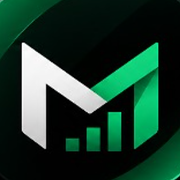
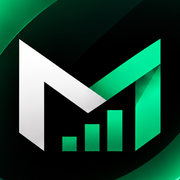
Monetra 5.0.1

diff --git a/app.js b/app.js
@@ -10,12 +10,11 @@ const DEFAULT_CATS=["Mercado / Alimentação","Moradia (aluguel, condomínio)","
 const FORMAS=[["pix","Pix"],["debito","Débito"],["credito","Crédito"],["dinheiro","Dinheiro"],["boleto","Boleto"]];
 const LSKEY="meucaixa.v1";
 /* Versão do app — ao publicar, atualize aqui, no sw.js (CACHE) e no CHANGELOG.md */
-const VERSAO="5.0.0";
+const VERSAO="5.0.1";
 const NOVIDADES=[
-  "O app agora se chama Monetra, com logo nova e visual novo nos temas claro e escuro.",
-  "Navegação nova: Início, Relatórios, Metas e Ajustes, com o botão + sempre no centro. O Perfil fica na sua foto, no topo.",
-  "Nova aba Metas: metas de economia, desafios e conquistas no mesmo lugar.",
-  "Caixas sem borda, cantos mais redondos, títulos fora das caixas e ícones no lugar dos emojis."
+  "Início igual ao modelo: saudação, saldo com gráfico do mês, receitas e despesas no topo, atalhos (Despesa, Receita, Conta fixa/Transferir, Caixinha), previsão e orçamento do mês.",
+  "Logo em alta resolução e barra de baixo com Início, Relatórios, +, Metas e Perfil (Ajustes fica no Perfil).",
+  "O botão voltar do celular agora fecha a janela aberta (ou volta para o Início) em vez de fechar o app."
 ];
 
 /* ---------- utilidades ---------- */
@@ -1195,12 +1194,13 @@ function encolheValores(raiz){ if(!raiz) return; raiz.querySelectorAll(".tile .v
 function header(){
   const t=(id,l)=>`<button role="tab" data-tab="${id}" aria-selected="${ui.tab===id}">${l}</button>`;
   const VIS=mesesVisiveis(), i=VIS.indexOf(ui.month), logado=mode!=="login"&&!precisaTermos();
-  return `<div class="top"><div class="brand"><img class="logo" src="icons/logo-128.png" alt="" width="36" height="36"><h1>Monetra</h1><button type="button" class="status ${statusCls}" id="status" data-status="1" title="${esc(statusTxt)}"><i></i><span class="stt">${esc(statusTxt)}</span></button></div>
+  return `<div class="top"><div class="brand"><img class="logo" src="icons/marca.png" alt="" width="34" height="27"><h1>Monetra</h1><button type="button" class="status ${statusCls}" id="status" data-status="1" title="${esc(statusTxt)}"><i></i><span class="stt">${esc(statusTxt)}</span></button></div>
   <div class="topright">${logado?`<div class="tabs" role="tablist">${t("mes","Início")}${t("ano","Relatórios")}${t("metas","Metas")}${t("ajustes","Ajustes")}</div>`:botaoTema()}
   ${logado&&state.loaded?`<button type="button" class="iconbtn" data-busca="1" aria-label="Buscar lançamentos" title="Buscar (tecla /)">${ICON.busca}</button>`:""}
   ${logado&&state.loaded?botaoSino():""}
   ${logado&&state.loaded?`<button type="button" class="avatarbtn ${ui.tab==="perfil"?"on":""}" data-tab="perfil" aria-label="Abrir meu perfil" title="Meu perfil">${avatar(36)}</button>`:""}</div></div>
   ${logado&&mode==="cloud"?seletorEspaco():""}
+  ${ui.tab==="mes"&&logado&&state.loaded?`<div class="saud"><small>${(()=>{ const h=new Date().getHours(); return h<12?"Bom dia,":h<18?"Boa tarde,":"Boa noite,"; })()}</small><h2>${esc(authUser?primeiroNome(meuNome()):"bem-vindo")}</h2></div>`:""}
   ${ui.tab==="mes"&&logado?`<div class="months"><button class="arrow" data-nav="-1" aria-label="Mês anterior" ${i<=0?"disabled":""}>‹</button>
   <div class="chips">${VIS.map(k=>`<button class="chip ${k===ui.month?"on":""} ${k===todayKey?"now":""}" data-month="${k}">${ABR[kM(k)-1]} <small>${String(kY(k)).slice(2)}</small></button>`).join("")}</div>
   <button class="arrow" data-nav="1" aria-label="Próximo mês" ${i>=VIS.length-1?"disabled":""}>›</button></div>`:""}
@@ -1215,15 +1215,15 @@ function avatar(px){
 /* faixa do topo: termina um pouco abaixo do saldo (Início) ou do cabeçalho (outras abas) */
 function posicionaBanda(){ const app=document.getElementById("app"), band=app&&app.querySelector(".band"); if(!band) return;
   const y=el=>el.getBoundingClientRect().bottom+window.scrollY;
-  const hero=app.querySelector(".heroSaldo"), fim=hero?y(hero)+34:Math.max(...[".top",".espacos",".months",".note",".pagetitle"].map(q=>app.querySelector(q)).filter(Boolean).map(y))+(app.querySelector(".pagetitle")?14:4);
+  const hero=app.querySelector(".heroSaldo"), fim=hero?y(hero)+42:Math.max(...[".top",".espacos",".months",".note",".pagetitle"].map(q=>app.querySelector(q)).filter(Boolean).map(y))+(app.querySelector(".pagetitle")?14:4);
   band.style.height=Math.max(120,Math.round(fim))+"px"; document.body.classList.toggle("combanda",!!hero); }
 window.addEventListener("resize",()=>{ try{ posicionaBanda(); }catch(e){} });
 function bottomNav(){
   if(mode==="login"||!state.loaded||precisaTermos()) return "";
   const np=pendencias().length;
-  const ICN={mes:ICON.inicio,ano:ICON.relat,metas:ICON.metas,ajustes:ICON.ajustes};
+  const ICN={mes:ICON.inicio,ano:ICON.relat,metas:ICON.metas,perfil:ICON.perfil};
   const b=(id,l)=>`<button type="button" data-tab="${id}" class="${ui.tab===id?"on":""}" aria-current="${ui.tab===id?"page":"false"}">${ICN[id]}${id==="mes"&&np?`<i class="badge">${np}</i>`:""}<span>${l}</span></button>`;
-  return `<nav class="bottomnav" aria-label="Navegação">${b("mes","Início")}${b("ano","Relatórios")}<span class="navfab"><button class="fab" type="button" data-novo="gasto" aria-label="Novo lançamento">${ICON.mais}</button></span>${b("metas","Metas")}${b("ajustes","Ajustes")}</nav>`;
+  return `<nav class="bottomnav" aria-label="Navegação">${b("mes","Início")}${b("ano","Relatórios")}<span class="navfab"><button class="fab" type="button" data-novo="gasto" aria-label="Novo lançamento">${ICON.mais}</button></span>${b("metas","Metas")}${b("perfil","Perfil")}</nav>`;
 }
 function viewLogin(){
   const novo=ui.loginModo==="criar";
@@ -1280,7 +1280,7 @@ function sequencias(gs){
   let azulMelhor=0, r=0; fechados.forEach((k,i)=>{ r=calc(k).saldo>=0?(i&&entre(fechados[i-1],k)===1?r+1:1):0; if(r>azulMelhor) azulMelhor=r; });
   return {atual,melhor,azulAtual,azulMelhor,fechados};
 }
-const ICQ={broto:'<path d="M12 20v-8"/><path d="M12 12c0-4 3-6 7-6 0 4-3 6-7 6zM12 14c0-3-2.5-5-6-5 0 3 2.5 5 6 5z"/>',chama:'<path d="M12 21c-4 0-6.5-2.6-6.5-6 0-4 4-6 4.5-10 2.5 1.5 4 4 4 6 1-1 1.5-2 1.5-3 2 1.5 3 4 3 7 0 3.4-2.5 6-6.5 6z"/>',medalha:'<circle cx="12" cy="14" r="5"/><path d="M9 9.5 7 3h4l1 3 1-3h4l-2 6.5"/>',coracao:'<path d="M12 20s-7-4.4-7-9.6A3.9 3.9 0 0 1 12 8a3.9 3.9 0 0 1 7 2.4c0 5.2-7 9.6-7 9.6z"/>',nuvem:'<path d="M7 18a4 4 0 0 1-.5-8 5.5 5.5 0 0 1 10.6 1.5A3.5 3.5 0 0 1 17 18z"/>',sol:'<circle cx="12" cy="12" r="4"/><path d="M12 3v2M12 19v2M3 12h2M19 12h2M5.6 5.6l1.4 1.4M17 17l1.4 1.4M5.6 18.4 7 17M17 7l1.4-1.4"/>',trofeu:'<path d="M8 4h8v5a4 4 0 0 1-8 0z"/><path d="M8 6H5a3 3 0 0 0 3 4M16 6h3a3 3 0 0 1-3 4M12 13v4M9 20h6"/>',alvo:'<circle cx="12" cy="12" r="8"/><circle cx="12" cy="12" r="4"/><circle cx="12" cy="12" r=".8"/>',cofre:'<path d="M5 11a7 6 0 0 1 12.5-3.5L20 7v4l-1.5 1A7 6 0 0 1 15 17v2h-3v-1.5h-2V19H7v-2.3A6 6 0 0 1 5 11z"/>',bandeira:'<path d="M6 21V4M6 4h11l-2 4 2 4H6"/>',raio:'<path d="M13 3 5.5 13.5H12L11 21l7.5-10.5H12z"/>',estrela:'<path d="m12 4 2.4 5 5.4.7-4 3.7 1 5.4L12 16.3 7.2 18.8l1-5.4-4-3.7 5.4-.7z"/>'};
+const ICQ={"seta-baixo":'<path d="M12 5v14M6 13l6 6 6-6"/>',"seta-cima":'<path d="M12 19V5M6 11l6-6 6 6"/>',troca:'<path d="M7 7h12l-3-3M17 17H5l3 3"/>',repete:'<path d="M17 4l3 3-3 3"/><path d="M4 12V9a2 2 0 0 1 2-2h14M7 20l-3-3 3-3"/><path d="M20 12v3a2 2 0 0 1-2 2H4"/>',tendencia:'<path d="M4 17l5-5 4 3 7-8"/><path d="M15 7h5v5"/>',engrenagem:'<circle cx="12" cy="12" r="3"/><path d="M19.4 15a1.7 1.7 0 0 0 .3 1.8l.1.1a2 2 0 1 1-2.8 2.8l-.1-.1a1.7 1.7 0 0 0-1.8-.3 1.7 1.7 0 0 0-1 1.5V21a2 2 0 0 1-4 0v-.1a1.7 1.7 0 0 0-1.1-1.5 1.7 1.7 0 0 0-1.8.3l-.1.1a2 2 0 1 1-2.8-2.8l.1-.1a1.7 1.7 0 0 0 .3-1.8 1.7 1.7 0 0 0-1.5-1H3a2 2 0 0 1 0-4h.1a1.7 1.7 0 0 0 1.5-1.1 1.7 1.7 0 0 0-.3-1.8l-.1-.1a2 2 0 1 1 2.8-2.8l.1.1a1.7 1.7 0 0 0 1.8.3H9a1.7 1.7 0 0 0 1-1.5V3a2 2 0 0 1 4 0v.1a1.7 1.7 0 0 0 1 1.5 1.7 1.7 0 0 0 1.8-.3l.1-.1a2 2 0 1 1 2.8 2.8l-.1.1a1.7 1.7 0 0 0-.3 1.8V9a1.7 1.7 0 0 0 1.5 1H21a2 2 0 0 1 0 4h-.1a1.7 1.7 0 0 0-1.5 1z"/>',chev:'<path d="m9 6 6 6-6 6"/>',broto:'<path d="M12 20v-8"/><path d="M12 12c0-4 3-6 7-6 0 4-3 6-7 6zM12 14c0-3-2.5-5-6-5 0 3 2.5 5 6 5z"/>',chama:'<path d="M12 21c-4 0-6.5-2.6-6.5-6 0-4 4-6 4.5-10 2.5 1.5 4 4 4 6 1-1 1.5-2 1.5-3 2 1.5 3 4 3 7 0 3.4-2.5 6-6.5 6z"/>',medalha:'<circle cx="12" cy="14" r="5"/><path d="M9 9.5 7 3h4l1 3 1-3h4l-2 6.5"/>',coracao:'<path d="M12 20s-7-4.4-7-9.6A3.9 3.9 0 0 1 12 8a3.9 3.9 0 0 1 7 2.4c0 5.2-7 9.6-7 9.6z"/>',nuvem:'<path d="M7 18a4 4 0 0 1-.5-8 5.5 5.5 0 0 1 10.6 1.5A3.5 3.5 0 0 1 17 18z"/>',sol:'<circle cx="12" cy="12" r="4"/><path d="M12 3v2M12 19v2M3 12h2M19 12h2M5.6 5.6l1.4 1.4M17 17l1.4 1.4M5.6 18.4 7 17M17 7l1.4-1.4"/>',trofeu:'<path d="M8 4h8v5a4 4 0 0 1-8 0z"/><path d="M8 6H5a3 3 0 0 0 3 4M16 6h3a3 3 0 0 1-3 4M12 13v4M9 20h6"/>',alvo:'<circle cx="12" cy="12" r="8"/><circle cx="12" cy="12" r="4"/><circle cx="12" cy="12" r=".8"/>',cofre:'<path d="M5 11a7 6 0 0 1 12.5-3.5L20 7v4l-1.5 1A7 6 0 0 1 15 17v2h-3v-1.5h-2V19H7v-2.3A6 6 0 0 1 5 11z"/>',bandeira:'<path d="M6 21V4M6 4h11l-2 4 2 4H6"/>',raio:'<path d="M13 3 5.5 13.5H12L11 21l7.5-10.5H12z"/>',estrela:'<path d="m12 4 2.4 5 5.4.7-4 3.7 1 5.4L12 16.3 7.2 18.8l1-5.4-4-3.7 5.4-.7z"/>'};
 const icq=(k,px)=>`<svg viewBox="0 0 24 24" width="${px||22}" height="${px||22}" aria-hidden="true" fill="none" stroke="currentColor" stroke-width="1.8" stroke-linecap="round" stroke-linejoin="round">${ICQ[k]||ICQ.estrela}</svg>`;
 const CONQ=[
   {id:"primeiro",ic:"broto",nome:"Primeiro passo",como:"Lance sua primeira despesa."},
@@ -1595,6 +1595,19 @@ function linhaMeta(mt,k){
     <span class="track"><span style="width:${(i.pct*100).toFixed(1)}%"></span></span>
     <small>${esc(sub)}</small></button>`;
 }
+function serieSaldo(k){
+  const dim=diasMes(k), mov=new Array(dim+2).fill(0), m=normMonth(state.months[k]||{}), c=calc(k), dd=x=>Math.min(dim,Math.max(1,Number(x)||1));
+  mov[1]+=c.salario; rendasDoMes(k).filter(r=>!r.pular).forEach(r=>mov[dd(r.dia)]+=Number(r.valor)||0); (m.avulsos||[]).forEach(a=>mov[dd(a.dia)]+=Number(a.valor)||0);
+  despesasDoMes(k).forEach(g=>{ const cc=g.cartaoId?(state.config.cartoes.find(x=>x.id===g.cartaoId)):null; mov[dd(cc?cc.vence:g.dia)]-=Number(g.valor)||0; });
+  (m.caixinha||[]).forEach(x=>mov[dd(x.dia)]+=(x.tipo==="guardar"?-1:1)*(Number(x.valor)||0));
+  const ate=k===todayKey?today.getDate():dim, out=[]; let s=0; for(let d=1;d<=ate;d++){ s+=mov[d]; out.push(s); } return out;
+}
+function graficoSaldo(sr){
+  if(sr.length<2) return "";
+  const W=360,H=70, mx=Math.max(...sr), mn=Math.min(...sr,0), rg=(mx-mn)||1;
+  const P=sr.map((v,i)=>[i/(sr.length-1)*W,H-4-(v-mn)/rg*(H-8)]), d="M"+P.map(p=>p[0].toFixed(1)+","+p[1].toFixed(1)).join(" L"), u=P[P.length-1];
+  return `<svg class="hs-graf" viewBox="0 0 ${W} ${H}" preserveAspectRatio="none" aria-hidden="true"><defs><linearGradient id="hsg" x1="0" y1="0" x2="0" y2="1"><stop offset="0" stop-color="currentColor" stop-opacity=".32"/><stop offset="1" stop-color="currentColor" stop-opacity="0"/></linearGradient></defs><path d="${d} L${W},${H} L0,${H}Z" fill="url(#hsg)"/><path d="${d}" fill="none" stroke="currentColor" stroke-width="2.5" stroke-linejoin="round" vector-effect="non-scaling-stroke"/><circle cx="${u[0].toFixed(1)}" cy="${u[1].toFixed(1)}" r="3.5" fill="currentColor"/></svg>`;
+}
 function viewMes(){
   const k=ui.month, m=getMonth(k), c=calc(k), cats=state.config.categorias, isCur=k===todayKey;
   const prevK=shiftKey(k,-1), prev=MESES.includes(prevK)&&ativo(prevK)&&ativo(k)?calc(prevK):null;
@@ -1604,21 +1617,30 @@ function viewMes(){
   const subRec=[ "salário "+brl(c.salario), c.rendas?"fixas "+brl(c.rendas):"", c.avulsos?"avulsos "+brl(c.avulsos):"" ].filter(Boolean).join(" · ");
   const varDesp=prev?variacao(c.despesas,prev.despesas):"";
   const usoPct=c.receitas>0?Math.round((c.despesas+c.guardado-c.retirado)/c.receitas*100):null;
+  const mesN=NOMES[kM(k)-1].toLowerCase(), varS=prev&&Math.abs(prev.saldo)>0.5?(c.saldo-prev.saldo)/Math.abs(prev.saldo):null;
+  const pv=c.receitas>0?previsaoMes(k,c):null, alTop=isCur?alertasOrcamento(k).find(a=>a.diaEstoura||a.nivel==="passou"):null;
+  const notaTxt=pv?(pv.ritmo>0?`No ritmo atual, ${mesN} termina com <b>≈ ${brl(pv.saldo)}</b>.`:`Sem gastos do dia a dia até agora: ${mesN} termina com <b>${brl(pv.saldo)}</b> se continuar assim.`):c.porDia!==null&&c.receitas>0?`Você pode gastar <b>${brl(c.porDia)}</b> por dia ${isCur?"até o fim do mês":"neste mês"}.`:"";
+  const notaAl=alTop?(alTop.nivel==="passou"?` ${esc(alTop.nome)} passou do limite.`:` ${esc(alTop.nome)} estoura o limite no dia ${alTop.diaEstoura}.`):"";
   const tiles=`<div class="heroSaldo ${c.saldo<0?"neg":""}">
-    <div class="hs-top"><span class="lab">Saldo de ${esc(NOMES[kM(k)-1].toLowerCase())}</span><span class="hs-acum">acumulado <b class="${acum<0?"neg":""}">${brl(acum)}</b></span></div>
+    <span class="lab">Saldo de ${esc(mesN)}</span>
     <b class="hs-val">${brl(c.saldo)}</b>
-    ${usoPct!==null?`<div class="hs-bar ${usoPct>100?"over":usoPct>=85?"warn":""}" role="img" aria-label="Usou ${usoPct}% do que entrou"><i style="width:${Math.min(100,Math.max(0,usoPct))}%"></i></div>`:""}
-    ${(()=>{ const pv=c.receitas>0?previsaoMes(k,c):null; if(!pv) return "";
-      const mes=NOMES[kM(k)-1].toLowerCase();
-      return `<div class="hs-prev ${pv.saldo<0?"neg":""}"><span class="hp-ic" aria-hidden="true">${ICON.ano||""}</span><span>${pv.ritmo>0?`No ritmo atual (≈ ${brl(pv.ritmo)}/dia), ${mes} termina com <b>≈ ${brl(pv.saldo)}</b>`:`Sem gastos do dia a dia até agora: ${mes} termina com <b>${brl(pv.saldo)}</b> se continuar assim`}${pv.cartao>0?`<small>e mais ≈ ${brl(pv.cartao)} no cartão até o fim do mês (fatura de ${esc(abrMes(shiftKey(k,1)))})</small>`:""}${pv.foraRitmo?`<small>${pv.foraRitmo===1?"1 compra grande ficou":pv.foraRitmo+" compras grandes ficaram"} fora do ritmo (acima de ${brl(pv.grande)}), por ser fora do comum.</small>`:""}</span></div>`; })()}
-    <small>${usoPct!==null?(usoPct>100?"Saiu mais do que entrou neste mês":"Usou "+usoPct+"% do que entrou"):"Informe a renda do mês para ver o saldo"}${varDesp?" · despesas "+esc(varDesp.replace(/ vs .*/,""))+" vs "+esc(abrMes(prevK)):""}</small>
+    <div class="hs-sub">${varS!==null?`<span class="${varS>=0?"hs-up":"hs-down"}">${varS>=0?"▲":"▼"} ${Math.round(Math.abs(varS)*100)}%</span> vs ${esc(NOMES[kM(prevK)-1].toLowerCase())} · `:""}acumulado <b>${brl(acum)}</b></div>
+    ${graficoSaldo(serieSaldo(k))}
+    <div class="hs-duo"><div class="hs-mini"><span class="lab">Receitas</span><b>${brl(c.receitas)}</b></div><div class="hs-mini"><span class="lab">Despesas</span><b class="neg">${brl(c.despesas)}</b></div></div>
   </div>
-  <div class="tiles minis">
-    <div class="tile"><span class="lab">Receitas</span><span class="val pos">${brl(c.receitas)}</span><span class="sub">${esc(subRec)}</span></div>
-    <div class="tile"><span class="lab">Despesas</span><span class="val">${brl(c.despesas)}</span><span class="sub">${c.receitas>0?Math.round(c.pct*100)+"% do que entrou":"nenhuma receita ainda"}</span></div>
-    <div class="tile"><span class="lab">Por dia</span><span class="val">${c.porDia===null?"—":brl(c.porDia)}</span><span class="sub">${c.porDia===null?"mês já encerrado":esc(c.porDiaSub)}</span></div>
-    <div class="tile"><span class="lab">Caixinha</span><span class="val">${brl(cx)}</span><span class="sub">${c.guardado||c.retirado?"neste mês: +"+brl(c.guardado)+(c.retirado?" · −"+brl(c.retirado):""):"guardado até agora"}</span></div>
-  </div>`;
+  <div class="qa">
+    <button type="button" class="q" data-novo="gasto"><span class="qi">${icq("seta-baixo")}</span>Despesa</button>
+    <button type="button" class="q" data-novo="avulso"><span class="qi">${icq("seta-cima")}</span>Receita</button>
+    ${state.config.contas.length>1?`<button type="button" class="q" data-novo="transf"><span class="qi">${icq("troca")}</span>Transferir</button>`:`<button type="button" class="q" data-novo="fixo"><span class="qi">${icq("repete")}</span>Conta fixa</button>`}
+    <button type="button" class="q" data-novo="caixinha" data-cxtipo="guardar"><span class="qi">${icq("cofre")}</span>Caixinha</button>
+  </div>
+<!--LEMB-->
+  ${notaTxt||notaAl?`<div class="nota"><span class="ni">${icq("tendencia",17)}</span><span>${notaTxt}${notaAl}${pv&&pv.cartao>0?`<small>e mais ≈ ${brl(pv.cartao)} no cartão até o fim do mês (fatura de ${esc(abrMes(shiftKey(k,1)))})</small>`:""}</span></div>`:""}
+  ${(()=>{ const comLim=cats.filter(ct=>ct.orcamento>0), base=comLim.length?comLim:cats.filter(ct=>(c.porCat[ct.id]||0)>0).sort((a,b)=>(c.porCat[b.id]||0)-(c.porCat[a.id]||0)).slice(0,4);
+      if(!base.length) return "";
+      const linhas=base.slice(0,4).map(ct=>{ const v=c.porCat[ct.id]||0, o=comLim.length?limiteCat(ct,k):c.despesas, p=o>0?Math.min(100,v/o*100):0, cls=comLim.length&&v>o?"over":comLim.length&&p>=80?"warn":"";
+        return `<div class="orow ${cls}" style="--dot:${catColor(ct.id)}">${icoCat(ct.id)}<span class="ot"><b>${esc(ct.nome)}</b><span class="track"><i style="width:${p.toFixed(1)}%"></i></span></span><span class="ov">${brl(v)}<small>${comLim.length?"de "+brl(o):Math.round(p)+"%"}</small></span></div>`; }).join("");
+      return `<div class="card orc"><div class="cardhead"><h2>${comLim.length?"Orçamento do mês":"Onde mais gastou"}</h2><button type="button" class="link" data-rolar="onde">Ver tudo</button></div>${linhas}${comLim.length?"":`<button type="button" class="link" data-irajustes="categorias">Definir limites por categoria</button>`}</div>`; })()}`;
   /* lançamentos do mês (compras feitas neste mês + parcelas fora do cartão) */
   const todos=m.gastos.filter(g=>g.forma!=="credito").concat(parcelasDoMes(k).filter(p=>p.forma!=="credito"));
   if(ui.filtro&&catIndex(ui.filtro)<0) ui.filtro="";
@@ -1629,7 +1651,7 @@ function viewMes(){
   const totDia={}; gastos.forEach(g=>{ totDia[g.dia]=(totDia[g.dia]||0)+(Number(g.valor)||0); });
   const byDay={}; visiveis.forEach(g=>{(byDay[g.dia]=byDay[g.dia]||[]).push(g)});
   const days=Object.keys(byDay).map(Number).sort((a,b)=>b-a);
-  const lista=`<div class="card"><div class="cardhead"><h2>Despesas do mês</h2>
+  const lista=`<div class="card"><div class="cardhead"><h2>Últimos lançamentos</h2>
     <select class="in mini" id="filtroCat" aria-label="Filtrar por categoria"><option value="">Todas as categorias</option>${cats.map(ct=>`<option value="${esc(ct.id)}" ${ui.filtro===ct.id?"selected":""}>${esc(ct.nome)}</option>`).join("")}</select></div>
     <button type="button" class="btn wide desk" data-novo="gasto">${ICON.mais} Lançar despesa</button>
     ${gastos.length?`<p class="listaresumo">${gastos.length} despesa${gastos.length===1?"":"s"}${ui.filtro?" nesta categoria":""} · ${brl(soma(gastos))}</p>`:""}
@@ -1708,7 +1730,7 @@ function viewMes(){
   const porSub={}; despesasDoMes(k).forEach(g=>{ if(g.sub&&subName(g.cat,g.sub)){ const kk=g.cat; (porSub[kk]=porSub[kk]||{})[g.sub]=((porSub[kk]||{})[g.sub]||0)+(Number(g.valor)||0); } });
   const subsLinha=x=>{ const ps=porSub[x.id]; if(!ps) return ""; const tot=Object.values(ps).reduce((a,v)=>a+v,0), resto=x.v-tot;
     return `<div class="subs">${Object.entries(ps).sort((a,b)=>b[1]-a[1]).map(([sid,v])=>`<span>${esc(subName(x.id,sid))} <b>${brl(v)}</b></span>`).join("")}${resto>0.005?`<span>outros <b>${brl(resto)}</b></span>`:""}</div>`; };
-  const onde=`<div class="card"><div class="cardhead"><h2>Para onde foi</h2><span class="num muted">${varDesp?esc(varDesp):""}</span></div>
+  const onde=`<div class="card" id="onde"><div class="cardhead"><h2>Para onde foi</h2><span class="num muted">${varDesp?esc(varDesp):""}</span></div>
     <div class="donutwrap">${donut(ordenados,c.despesas,brl(c.despesas),"gasto no mês")}
     <div class="bars">${ordenados.filter(x=>x.v>0||x.o>0).map(x=>{ const pv=prev?(prev.porCat[x.id]||0):0; const p=x.o>0?x.v/x.o:0; const cls=x.o>0&&p>1?"over":x.o>0&&p>=.8?"warn":"";
       const w=x.o>0?Math.min(100,p*100):(c.despesas>0?x.v/c.despesas*100:0);
@@ -1720,7 +1742,7 @@ function viewMes(){
   const pag=`<div class="card"><div class="cardhead"><h2>Forma de pagamento</h2></div>
     ${formas.length?`<div class="bars">${formas.map(x=>`<div class="bar" style="--dot:var(--fm-${x.id==="?"?"na":x.id})"><div class="t"><b>${esc(x.n)}</b><span class="num">${brl(x.v)} · ${Math.round(x.v/c.despesas*100)}%</span></div><div class="track"><div style="width:${(x.v/formas[0].v*100).toFixed(1)}%"></div></div></div>`).join("")}</div>`:'<p class="hint">Mostra quanto saiu no Pix, débito, crédito, dinheiro e boleto.</p>'}
     ${!cartaoAtivo()&&c.porForma.credito>0?`<p class="hint">Dica: em Ajustes → Cartões de crédito, cadastre seu cartão com o dia de fechamento para as compras no crédito contarem no mês da fatura.</p>`:""}</div>`;
-  return aviso+(k===todayKey?cardViagemMes():"")+cardLembretes()+tiles+`<div class="grid"><div class="col">${lista}${cardCalendario(k)}${onde}</div><div class="col">${contasCard}${fatura}${fixas}${receitas}${caixa}${pag}</div></div>`;
+  return aviso+(k===todayKey?cardViagemMes():"")+tiles.replace('<!--LEMB-->',cardLembretes())+`<div class="grid"><div class="col">${lista}${cardCalendario(k)}${onde}</div><div class="col">${contasCard}${fatura}${fixas}${receitas}${caixa}${pag}</div></div>`;
 }
 
 /* ---------- aba Visão geral (só meses que já passaram + o atual) ---------- */
@@ -2031,7 +2053,8 @@ function viewPerfil(){
   const criado=u&&u.metadata&&u.metadata.creationTime?new Date(u.metadata.creationTime).toLocaleDateString("pt-BR",{day:"2-digit",month:"long",year:"numeric"}):"";
   const nLanc=Object.values(state.months).reduce((a,m)=>a+(m.gastos?m.gastos.length:0)+(m.avulsos?m.avulsos.length:0)+(m.caixinha?m.caixinha.length:0),0);
   const rendas=cf.rendas.filter(r=>!r.ate||r.ate>=todayKey);
-  return `<div class="perfilhead card">${avatar(72)}<div class="pinfo"><h2>${esc(u?(u.displayName||"Sua conta"):"Modo local")}</h2>
+  return `<button type="button" class="ajlink" data-tab="ajustes"><span class="aji">${icq("engrenagem",20)}</span><span><b>Ajustes</b><small>Contas fixas, categorias, cartões, ferramentas e mais</small></span><span class="chev">${icq("chev",18)}</span></button>
+  <div class="perfilhead card">${avatar(72)}<div class="pinfo"><h2>${esc(u?(u.displayName||"Sua conta"):"Modo local")}</h2>
     <p class="muted">${u?esc(u.email||""):"Sem login: os dados ficam só neste aparelho."}</p>
     <p class="small muted">${criado?"Conta criada em "+esc(criado)+" · ":""}${ini?"controle desde "+esc(nomeMes(ini).toLowerCase()):"controle ainda não começou"} · ${nLanc} lançamento${nLanc===1?"":"s"}</p></div>
     ${u?`<button class="btn ghost" type="button" data-logout="1">Sair da conta</button>`:""}</div>
@@ -2230,12 +2253,22 @@ let sheetVoltaFoco=null;
 function openSheet(tipo,id,extra){
   if(mode==="login"||precisaTermos()) return;
   if(mode==="login"||!state.loaded) return;
-  if(!ui.sheet) sheetVoltaFoco=document.activeElement;
+  if(!ui.sheet){ sheetVoltaFoco=document.activeElement; marcaHist("sheet"); }
   ui.sheet=Object.assign({tipo,id:id||null},extra||{});
   renderSheet();
   const f=document.querySelector("#sheet [data-autofocus]"); if(f) setTimeout(()=>f.focus(),30);
 }
-function closeSheet(){ ui.sheet=null; const r=document.getElementById("sheet"); if(r) r.innerHTML=""; document.body.classList.remove("sheet-open"); if(sheetVoltaFoco&&document.contains(sheetVoltaFoco)) try{sheetVoltaFoco.focus()}catch(e){} sheetVoltaFoco=null; }
+/* botão voltar do celular: cada janela (folha) e cada aba fora do Início ganham um passo no histórico */
+let _hist=0, _voltando=false, _ignoraPop=0;
+function marcaHist(tipo){ try{ history.pushState({mb:tipo,n:++_hist},""); }catch(e){} }
+window.addEventListener("popstate",()=>{
+  if(_ignoraPop>0){ _ignoraPop--; return; }
+  if(ui.sheet){ _voltando=true; closeSheet(); _voltando=false; return; }
+  if(tutAberto&&typeof fecharTutorial==="function"){ try{ fecharTutorial(); }catch(e){} return; }
+  if(ui.tab!=="mes"){ ui.tab="mes"; render(); window.scrollTo({top:0}); return; }
+});
+function closeSheet(){ const tinha=!!ui.sheet; if(tinha&&!_voltando&&history.state&&history.state.mb==="sheet"){ _ignoraPop++; try{ history.back(); }catch(e){ _ignoraPop--; } }
+  ui.sheet=null; const r=document.getElementById("sheet"); if(r) r.innerHTML=""; document.body.classList.remove("sheet-open"); if(sheetVoltaFoco&&document.contains(sheetVoltaFoco)) try{sheetVoltaFoco.focus()}catch(e){} sheetVoltaFoco=null; }
 const mesSheet=()=>(ui.sheet&&ui.sheet.mes)||ui.month;
 function itemAtual(){
   const s=ui.sheet; if(!s||!s.id) return null; const k=mesSheet(), m=getMonth(k);
@@ -2830,13 +2863,15 @@ function bindSheet(r){
 const app=document.getElementById("app");
 function goMonth(k){ if(!mesesVisiveis().includes(k)) return; ui.month=k; render(); }
 function passo(n){ const V=mesesVisiveis(), i=V.indexOf(ui.month)+n; if(V[i]){ goMonth(V[i]); return true; } return false; }
-function setTab(t){ ui.tab=t; render(); window.scrollTo({top:0}); }
+function setTab(t){ if(t!=="mes"&&ui.tab==="mes") marcaHist("tab"); else if(t==="mes"&&ui.tab!=="mes"&&history.state&&history.state.mb==="tab"){ ui.tab=t; _ignoraPop++; try{ history.back(); }catch(e){ _ignoraPop--; } render(); window.scrollTo({top:0}); return; } ui.tab=t; render(); window.scrollTo({top:0}); }
 app.addEventListener("click",e=>{
   const b=e.target.closest("button,tr[data-open]"); if(!b) return;
   const d=b.dataset;
   if(d.espaco){ if(d.irpara){ ui.tab="perfil"; ui.rolarPara=d.irpara; } if(d.espaco===aberto) render(); else trocarEspaco(d.espaco); return; }
   if(d.irpara){ ui.tab="perfil"; render(); setTimeout(()=>{ const el=document.getElementById(d.irpara); if(el) el.scrollIntoView({block:"start",behavior:"smooth"}); },60); return; }
   if(d.tab){ setTab(d.tab); return; }
+  if(d.rolar){ const el=document.getElementById(d.rolar); if(el) el.scrollIntoView({block:"start",behavior:"smooth"}); return; }
+  if(d.irajustes){ setTab("ajustes"); return; }
   if(d.login){ entrar(); return; }
   if(d.termos){ acaoTermos(d.termos); return; }
   if(d.comp){ acaoComp(d.comp,d.id); return; }

diff --git a/style.css b/style.css
@@ -904,3 +904,51 @@ h1,h2,h3{letter-spacing:-.02em}
 .streaks > div{border-radius:18px}
 /* login */
 .loginbox,.login{border-radius:26px}
+/* 5.0 · Início no formato do modelo */
+.brand .logo{width:34px;height:auto;border-radius:0;box-shadow:none}
+.saud{padding:2px 2px 0}
+.saud small{font-size:13.5px;color:var(--muted)}
+.saud h2{margin:1px 0 0;font-size:24px;font-weight:700;letter-spacing:-.02em}
+.tema-claro .saud small{color:rgba(255,255,255,.72)} .tema-claro .saud h2{color:#fff}
+.heroSaldo{display:flex;flex-direction:column;gap:2px;padding:20px 20px 16px}
+.heroSaldo .lab{font-size:11.5px;letter-spacing:.07em}
+.heroSaldo .hs-val{margin:4px 0 2px}
+.hs-sub{font-size:13px;color:var(--muted)} .hs-sub b{font-weight:600}
+.tema-claro .hs-sub{color:rgba(255,255,255,.72)} .tema-claro .hs-sub b{color:#fff}
+.hs-up{color:#5BE9A4;font-weight:700} .hs-down{color:#FF9B9B;font-weight:700}
+.tema-escuro .hs-up{color:var(--accent)}
+.hs-graf{display:block;width:100%;height:72px;margin:12px 0 6px;color:#7CF2B6;overflow:visible}
+.tema-escuro .hs-graf{color:var(--accent)}
+.hs-duo{display:grid;grid-template-columns:1fr 1fr;gap:10px;margin-top:6px}
+.hs-mini{border-radius:16px;padding:10px 12px;background:rgba(255,255,255,.08);display:flex;flex-direction:column;gap:2px}
+.tema-escuro .hs-mini{background:#0B1712;box-shadow:inset 0 0 0 1px #173326}
+.hs-mini .lab{font-size:10.5px}
+.hs-mini b{font-size:16px;font-variant-numeric:tabular-nums}
+.hs-mini b.neg{color:#FF8A8A} .tema-escuro .hs-mini b.neg{color:var(--bad)}
+.qa{display:grid;grid-template-columns:repeat(4,minmax(0,1fr));gap:10px}
+.q{border:0;font:inherit;cursor:pointer;background:var(--surface);color:var(--fg);box-shadow:var(--sombra);border-radius:20px;padding:12px 4px 10px;display:flex;flex-direction:column;align-items:center;gap:7px;font-size:12.5px;font-weight:600}
+.tema-claro .q{box-shadow:0 10px 26px -12px rgba(0,0,0,.28)}
+.q .qi{width:38px;height:38px;border-radius:13px;display:grid;place-items:center;background:var(--accent-soft);color:var(--accent)}
+.q:hover .qi{background:var(--accent);color:var(--accent-ink)}
+.nota{display:flex;gap:12px;align-items:center;font-size:13.5px;line-height:1.45;padding:12px 14px;border-radius:20px;background:var(--accent-soft)}
+.tema-escuro .nota{background:#0C1A13;box-shadow:inset 0 0 0 1px #173326}
+.nota .ni{width:34px;height:34px;border-radius:11px;background:var(--accent);color:var(--accent-ink);display:grid;place-items:center;flex:0 0 auto}
+.nota small{display:block;color:var(--muted);font-size:12px}
+.card.orc{padding:6px 16px}
+.orow{display:grid;grid-template-columns:auto minmax(0,1fr) auto;gap:12px;align-items:center;padding:11px 0}
+.orow + .orow{box-shadow:0 -1px 0 var(--line)}
+.orow .ot{display:flex;flex-direction:column;gap:7px;min-width:0}
+.orow .ot b{font-weight:600;font-size:14.5px;overflow:hidden;text-overflow:ellipsis;white-space:nowrap}
+.orow .track{height:7px;display:block}
+.orow .track i{display:block;height:100%;border-radius:9px;background:var(--dot)}
+.orow.warn .track i{background:var(--warn)} .orow.over .track i{background:var(--bad)}
+.orow .ov{text-align:right;font-weight:700;font-variant-numeric:tabular-nums;white-space:nowrap}
+.orow .ov small{display:block;font-weight:500;color:var(--muted);font-size:12px}
+.card.orc .link{margin:4px 0 10px}
+.cardhead .link{font-size:13px;font-weight:600;color:var(--accent);background:none;border:0;cursor:pointer;padding:0}
+.ajlink{display:flex;align-items:center;gap:12px;width:100%;text-align:left;font:inherit;color:var(--fg);background:var(--surface);border:0;border-radius:22px;box-shadow:var(--sombra);padding:14px 16px;cursor:pointer}
+.ajlink .aji{width:40px;height:40px;border-radius:13px;display:grid;place-items:center;background:var(--accent-soft);color:var(--accent);flex:0 0 auto}
+.ajlink b{display:block;font-size:15px} .ajlink small{display:block;font-size:12.5px;color:var(--muted)}
+.ajlink .chev{margin-left:auto;color:var(--muted);display:grid}
+@media (min-width:761px){ .qa{max-width:640px} }
+.months .chips{scrollbar-width:none} .months .chips::-webkit-scrollbar{display:none}

diff --git a/sw.js b/sw.js
@@ -1,7 +1,7 @@
 // Service worker: deixa o app abrir mesmo sem internet.
-const CACHE = "monetra-5.0.0"; // acompanhe a versão do app (VERSAO em app.js)
+const CACHE = "monetra-5.0.1"; // acompanhe a versão do app (VERSAO em app.js)
 const SHELL = ["./", "index.html", "style.css", "app.js", "firebase-config.js", "manifest.webmanifest",
-  "icons/icon-192.png", "icons/icon-512.png", "icons/apple-touch-icon.png", "icons/logo-128.png"];
+  "icons/icon-192.png", "icons/icon-512.png", "icons/apple-touch-icon.png", "icons/logo-128.png", "icons/marca.png"];
 self.addEventListener("install", e => {
   // guarda cada arquivo separadamente: se um falhar, os outros continuam
   e.waitUntil(caches.open(CACHE).then(c => Promise.all(SHELL.map(u => c.add(u).catch(() => null)))).then(() => self.skipWaiting()));

diff --git a/CHANGELOG.md b/CHANGELOG.md
@@ -12,6 +12,14 @@ escreva aqui o que mudou e marque o commit com uma tag (ex.: `v2.4.0`).
 
 ---
 
+## 5.0.1 — 19/10/2026 **Início como no modelo + botão voltar**
+
+- Início no formato aprovado: saudação ("Boa tarde, Gustavo"), saldo com variação vs mês anterior, gráfico do saldo dia a dia, receitas e despesas dentro do cartão, atalhos rápidos, previsão do mês e o card "Orçamento do mês" (ou "Onde mais gastou", sem limites).
+- Logo e ícones refeitos a partir da imagem em alta resolução; no topo aparece só o M.
+- Barra de baixo: Início, Relatórios, +, Metas e Perfil. Ajustes abre pelo Perfil (e pelas abas no computador).
+- Botão voltar do celular: fecha a janela aberta (nova despesa, edição etc.) ou volta para o Início, em vez de fechar o app.
+- Barra de rolagem dos meses escondida.
+
 ## 5.0.0 — 19/10/2026 **Monetra**
 
 - O app passa a se chamar **Monetra**, com logo e ícones novos (tela inicial do celular, aba do navegador e APK).
